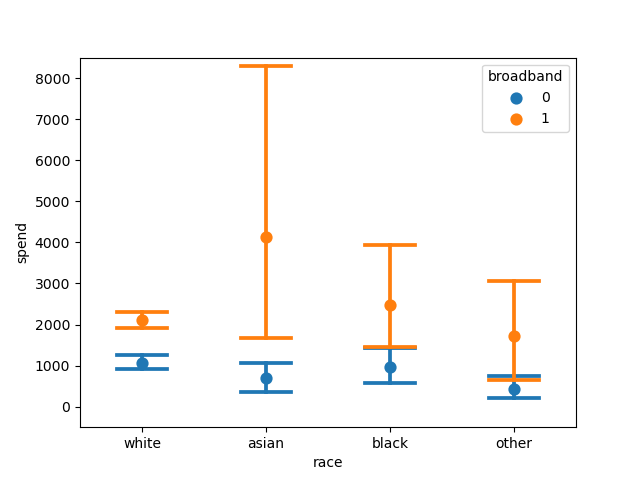
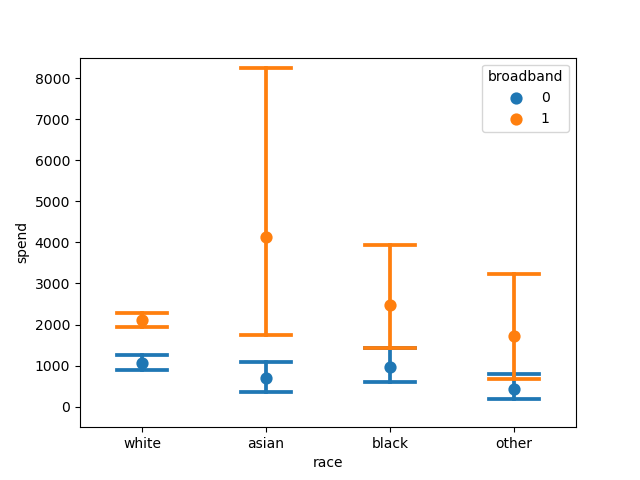
finish

diff --git a/hw1_plotting_figures_本那真一_2131708.py b/hw1_plotting_figures_本那真一_2131708.py
@@ -58,7 +58,7 @@ plt.savefig('scatterplot.png')
 browser = pd.read_csv('C:/test.py/pyplot/BDS/examples/web-browsers.csv')
 plt.figure()
 
-sns.pointplot(data=browser, x='race', y='spend', hue='broadband', errorbar='ci', join=False, capsize=.4)
+sns.pointplot(data=browser, x='race', y='spend', hue='broadband', errorbar='ci=99', join=False, capsize=.4)
 plt.ylim(-500, 8500)
 
-plt.savefig('pointplot.png')
+plt.savefig('bootstrapping.png')
